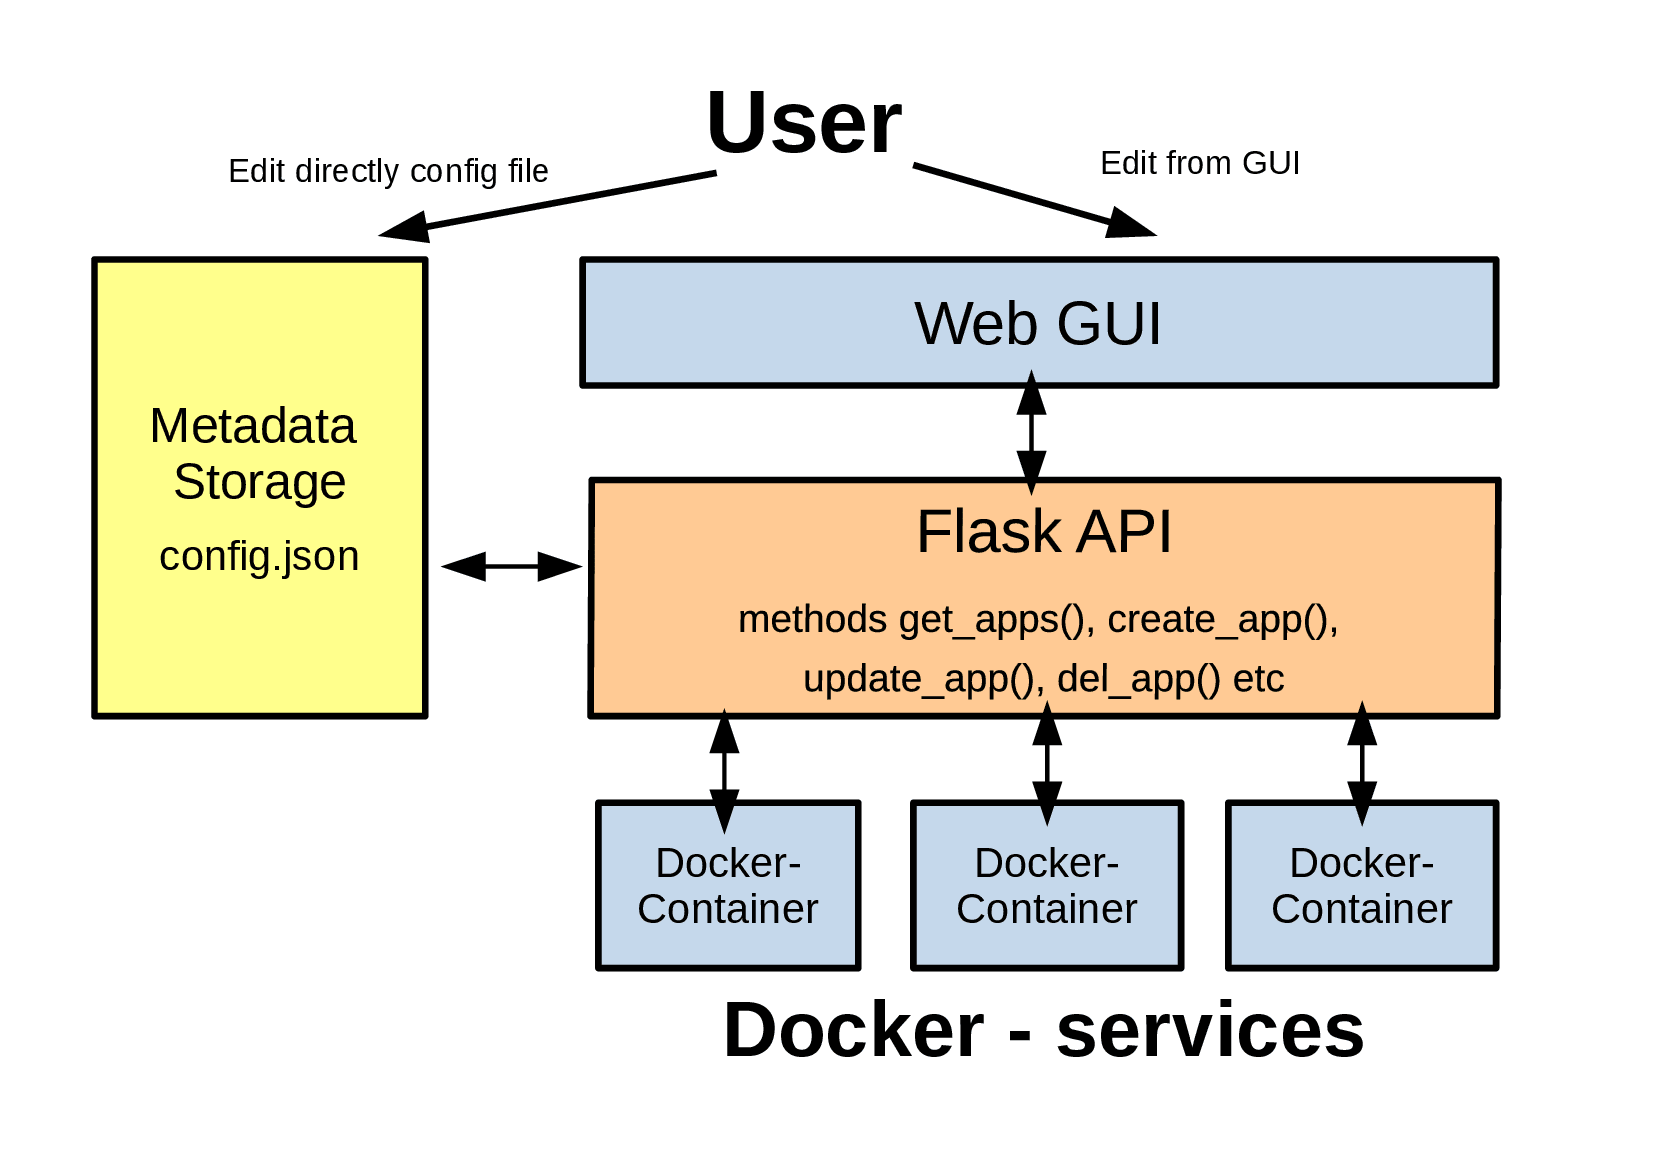
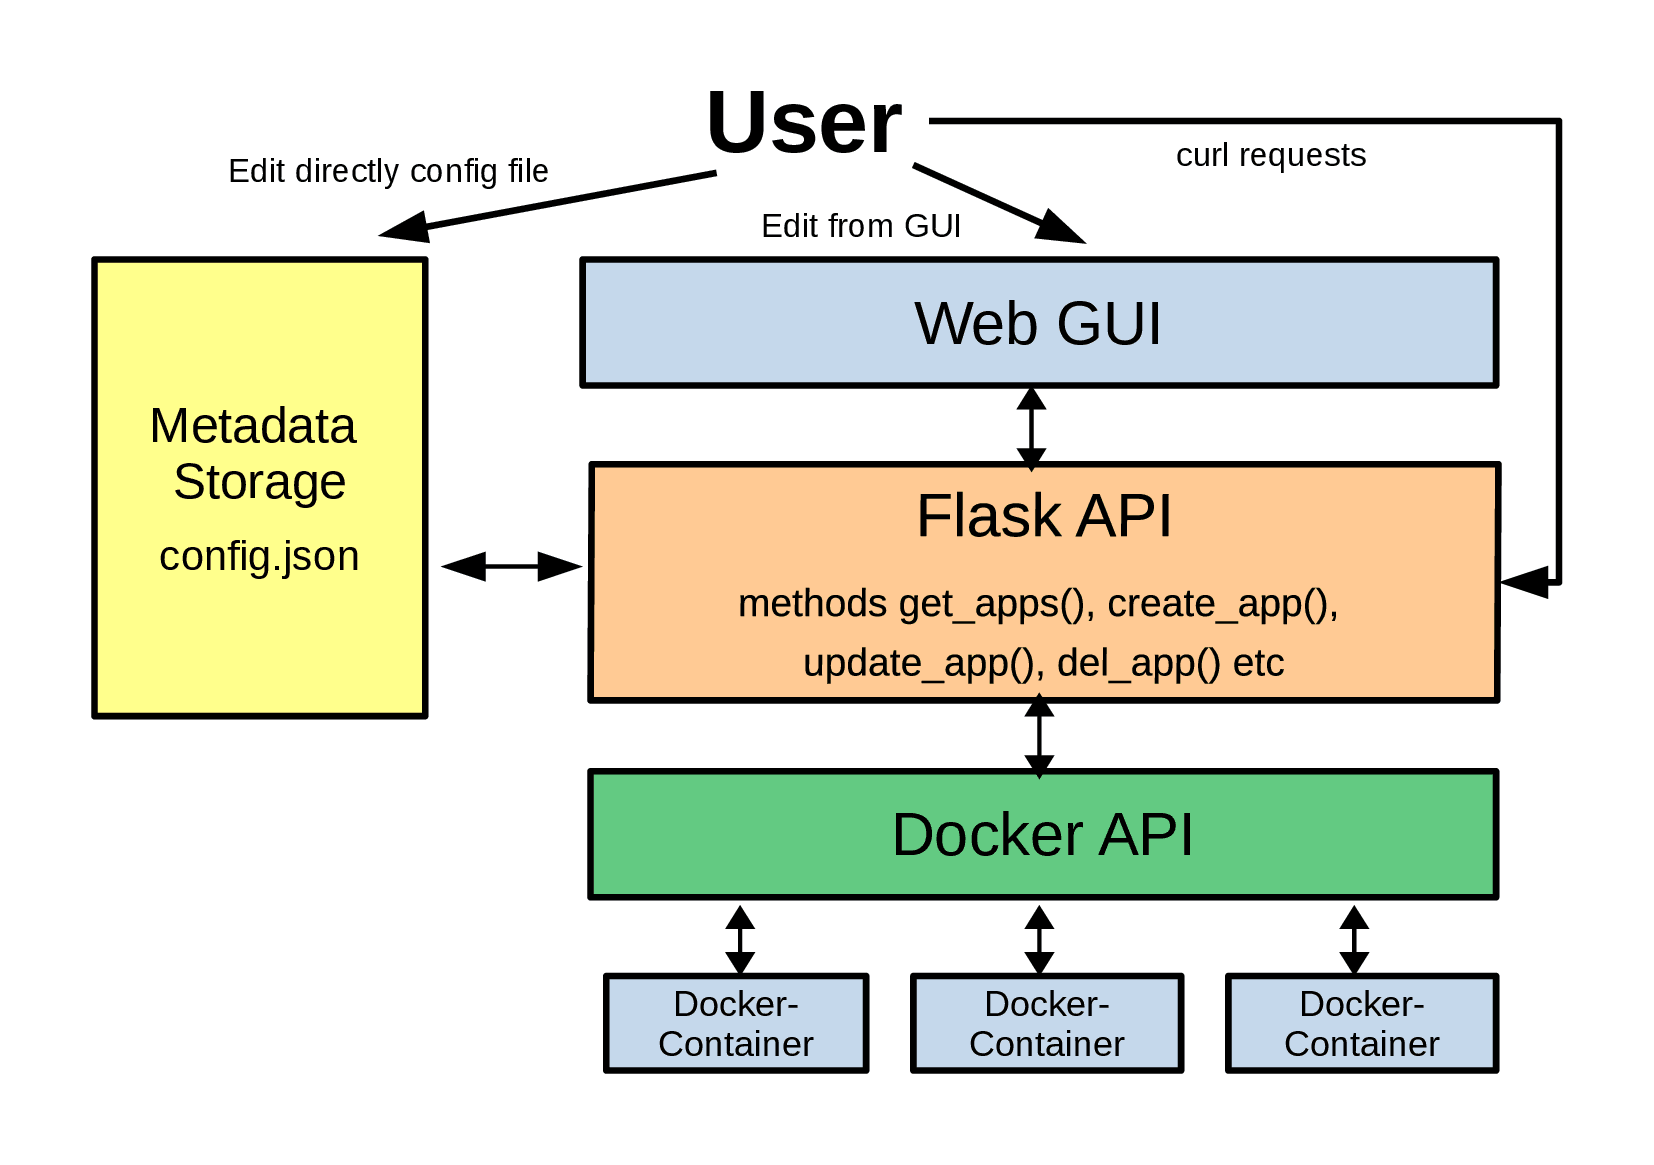
Version 4.6

Changed region(s): [[0.3392, 0.0927, 0.9559, 0.927]]

diff --git a/docker_api/app.py b/docker_api/app.py
@@ -1,13 +1,14 @@
 #!/usr/bin/env python3
 import json
+
 import docker.errors
+from flask import (Flask, abort, flash, get_flashed_messages, redirect,
+                   render_template, request, url_for)
 
-from flask import Flask, abort, request, render_template, url_for, flash, redirect, get_flashed_messages
-
-SECRET_KEY = '1FGhw5s8'
+SECRET_KEY = "1FGhw5s8"
 
 app = Flask(__name__)
-app.config['SECRET_KEY'] = SECRET_KEY
+app.config["SECRET_KEY"] = SECRET_KEY
 client = docker.from_env()
 active_apps = {}
 
@@ -15,25 +16,28 @@ active_apps = {}
 def _start_apps(list_of_apps: list):
     """Run all dockers from list_of_apps"""
     for app in list_of_apps:
-        active_apps[app['id']] = client.containers.run(
-            app['path'], detach=True, ports={f"{app['http_port']}/tcp": app['url'][app['url'].find('st:')+3:]}
+        port_for_publishing = app["url"][app["url"].find("st:") + 3 :]
+        active_apps[app["id"]] = client.containers.run(
+            app["path"],
+            detach=True,
+            ports={f"{app['http_port']}/tcp": port_for_publishing},
         )
 
 
 def _stop_apps(list_of_apps: list):
     """Stop all dockers from list_of_apps"""
     for app in list_of_apps:
-        active_apps[app['id']].stop()
-        del active_apps[app['id']]
+        active_apps[app["id"]].stop()
+        del active_apps[app["id"]]
 
 
 def _update_config(path: str, obj=None, operation=None):
     """Update or read your config file"""
-    if operation == 'r':
-        with open(path, 'r') as f:
+    if operation == "r":
+        with open(path, "r") as f:
             result = json.load(f)
         return result
-    with open(path, 'w') as f:
+    with open(path, "w") as f:
         json.dump(obj, f)
 
 
@@ -53,34 +57,34 @@ def _check_path_errors_and_launch(list_of_dockers: list):
 def start_api():
     """Run all dockers at start of app"""
     global docker_apps
-    docker_apps = _update_config('docker_api/config.json', operation='r')
-    if docker_apps['apps']:
-        _check_path_errors_and_launch(docker_apps['apps'])
+    docker_apps = _update_config("docker_api/config.json", operation="r")
+    if docker_apps["apps"]:
+        _check_path_errors_and_launch(docker_apps["apps"])
 
 
-@app.route('/')
+@app.route("/")
 def index():
-    return redirect(url_for('get_apps'))
+    return redirect(url_for("get_apps"))
 
 
-@app.route('/docker-api/apps', methods=['GET'])
+@app.route("/docker-api/apps", methods=["GET"])
 def get_apps():
-    return render_template("apps_page.html", docker_apps=docker_apps['apps'])
+    return render_template("apps_page.html", docker_apps=docker_apps["apps"])
 
 
-@app.route('/docker-api/apps/update', methods=['GET'])
+@app.route("/docker-api/apps/update", methods=["GET"])
 def update_config_changes():
     """Republication of docker containers according to config file, if it was changed"""
     global docker_apps, active_apps
     for app in active_apps:
         active_apps[app].stop()
     active_apps = {}
-    docker_apps = _update_config('docker_api/config.json', operation='r')
-    _check_path_errors_and_launch(docker_apps['apps'])
-    return redirect(url_for('get_apps'))
+    docker_apps = _update_config("docker_api/config.json", operation="r")
+    _check_path_errors_and_launch(docker_apps["apps"])
+    return redirect(url_for("get_apps"))
 
 
-@app.route('/docker-api/apps/create', methods=['GET', 'POST'])
+@app.route("/docker-api/apps/create", methods=["GET", "POST"])
 def create_app():
     """Create new docker container and run it"""
     if request.method == "POST":
@@ -88,68 +92,68 @@ def create_app():
             "app_name": request.form["app_name"],
             "path": request.form["path"],
             "http_port": request.form["http_port"],
-            "url": request.form["url"]
+            "url": request.form["url"],
         }
-        if docker_apps['apps']:
-            docker_app['id'] = docker_apps['apps'][-1]["id"] + 1
+        if docker_apps["apps"]:
+            docker_app["id"] = docker_apps["apps"][-1]["id"] + 1
         else:
-            docker_app['id'] = 1
+            docker_app["id"] = 1
         if not all(docker_app.values()):
             flash("All attributes are required!")
         else:
             if not _check_path_errors_and_launch([docker_app]):
-                docker_apps['apps'].append(docker_app)
+                docker_apps["apps"].append(docker_app)
                 _update_config("docker_api/config.json", docker_apps)
-                return redirect(url_for('get_apps'))
-    return render_template('create.html')
+                return redirect(url_for("get_apps"))
+    return render_template("create.html")
 
 
-@app.route('/docker-api/apps/<int:app_id>/edit', methods=['GET', 'POST'])
+@app.route("/docker-api/apps/<int:app_id>/edit", methods=["GET", "POST"])
 def update_app(app_id):
     """Change docker container config and get republication of it"""
     global docker_apps
-    docker_app = list(filter(lambda x: x['id'] == app_id, docker_apps['apps']))
-    if request.method == 'POST':
-        docker_app[0]['app_name'] = request.form['app_name']
-        docker_app[0]['path'] = request.form['path']
-        docker_app[0]['http_port'] = request.form['http_port']
-        docker_app[0]['url'] = request.form['url']
+    docker_app = list(filter(lambda x: x["id"] == app_id, docker_apps["apps"]))
+    if request.method == "POST":
+        docker_app[0]["app_name"] = request.form["app_name"]
+        docker_app[0]["path"] = request.form["path"]
+        docker_app[0]["http_port"] = request.form["http_port"]
+        docker_app[0]["url"] = request.form["url"]
         if not all(docker_app[0].values()):
-            flash('All attributes are required!')
+            flash("All attributes are required!")
         else:
-            if docker_app[0]['id'] in active_apps:
+            if docker_app[0]["id"] in active_apps:
                 _stop_apps(docker_app)
             if not _check_path_errors_and_launch(docker_app):
-                for index, app in enumerate(docker_apps['apps']):
-                    if app['id'] == docker_app[0]['id']:
-                        docker_apps['apps'][index] = docker_app[0]
+                for index, app in enumerate(docker_apps["apps"]):
+                    if app["id"] == docker_app[0]["id"]:
+                        docker_apps["apps"][index] = docker_app[0]
                 _update_config("docker_api/config.json", docker_apps)
-                flash('Your changes have been saved successfully')
-                return redirect(url_for('get_apps'))
-    return render_template('config_corr.html', docker_app=docker_app)
+                flash("Your changes have been saved successfully")
+                return redirect(url_for("get_apps"))
+    return render_template("config_corr.html", docker_app=docker_app)
 
 
-@app.route('/docker-api/apps/<int:app_id>/delete', methods=['POST'])
+@app.route("/docker-api/apps/<int:app_id>/delete", methods=["POST"])
 def del_app(app_id):
     """Stop docker file and delete it from config"""
-    docker_app = list(filter(lambda x: x['id'] == app_id, docker_apps['apps']))
+    docker_app = list(filter(lambda x: x["id"] == app_id, docker_apps["apps"]))
     if len(docker_app) == 0:
         abort(404)
-    docker_apps['apps'].remove(docker_app[0])
+    docker_apps["apps"].remove(docker_app[0])
     _update_config("docker_api/config.json", docker_apps)
     _stop_apps(docker_app)
-    return render_template("apps_page.html", docker_apps=docker_apps['apps'])
+    return render_template("apps_page.html", docker_apps=docker_apps["apps"])
 
 
-@app.route('/docker-api/apps/stop_all', methods=['GET'])
+@app.route("/docker-api/apps/stop_all", methods=["GET"])
 def stop_all_apps():
     """Stop all active containers"""
     global active_apps
     for app in active_apps:
         active_apps[app].stop()
     active_apps = {}
-    return redirect(url_for('get_apps'))
+    return redirect(url_for("get_apps"))
 
 
-if __name__ == '__main__':
-    app.run(host='0.0.0.0', debug=True)
+if __name__ == "__main__":
+    app.run(host="0.0.0.0", debug=True)

diff --git a/tests/tests.py b/tests/tests.py
@@ -67,7 +67,7 @@ with api.app.test_client() as test_client:
         api._stop_apps([{"app_name": "echo-server2", "path": "jmalloc/echo-server",
                          "http_port": "8080", "url": "http://localhost:44655", "id": 3}])
 
-
+    # Start test session
     def test_update_config_changes():
         config = {"apps": [{"app_name": "catnip", "path": "alexplahotnik/catnip",
                             "http_port": "5000", "url": "http://localhost:5555", "id": 1},

diff --git a/readme.md b/readme.md
@@ -47,14 +47,14 @@ It also update your config file.
 ## 3. Delete docker container.
 
 In GUI you can push "Delete app" button at the main page.  
-`curl -X POST http://localhost:5000/docker-api/apps/5/delete`
+`curl -X POST http://localhost:5000/docker-api/apps/<app_id>/delete`
 
 ## 4. Update information about docker container.
 
 In GUI you can push "Change config" link, fill in the fields of the proposed form and click "submit" button.
 If there be some incorrect information, the docker will not be started and you received a error message.
 But app always stops the initial application.  
-`curl -X POST -d "app_name=some_name&path=some_path&http_port=some_port&url=some_url" http://localhost:5000/docker-api/apps/1/edit`
+`curl -X POST -d "app_name=some_name&path=some_path&http_port=some_port&url=some_url" http://localhost:5000/docker-api/apps/<app_id>/edit`
 
 ## 5. Update all docker-containers according to config file.
 
